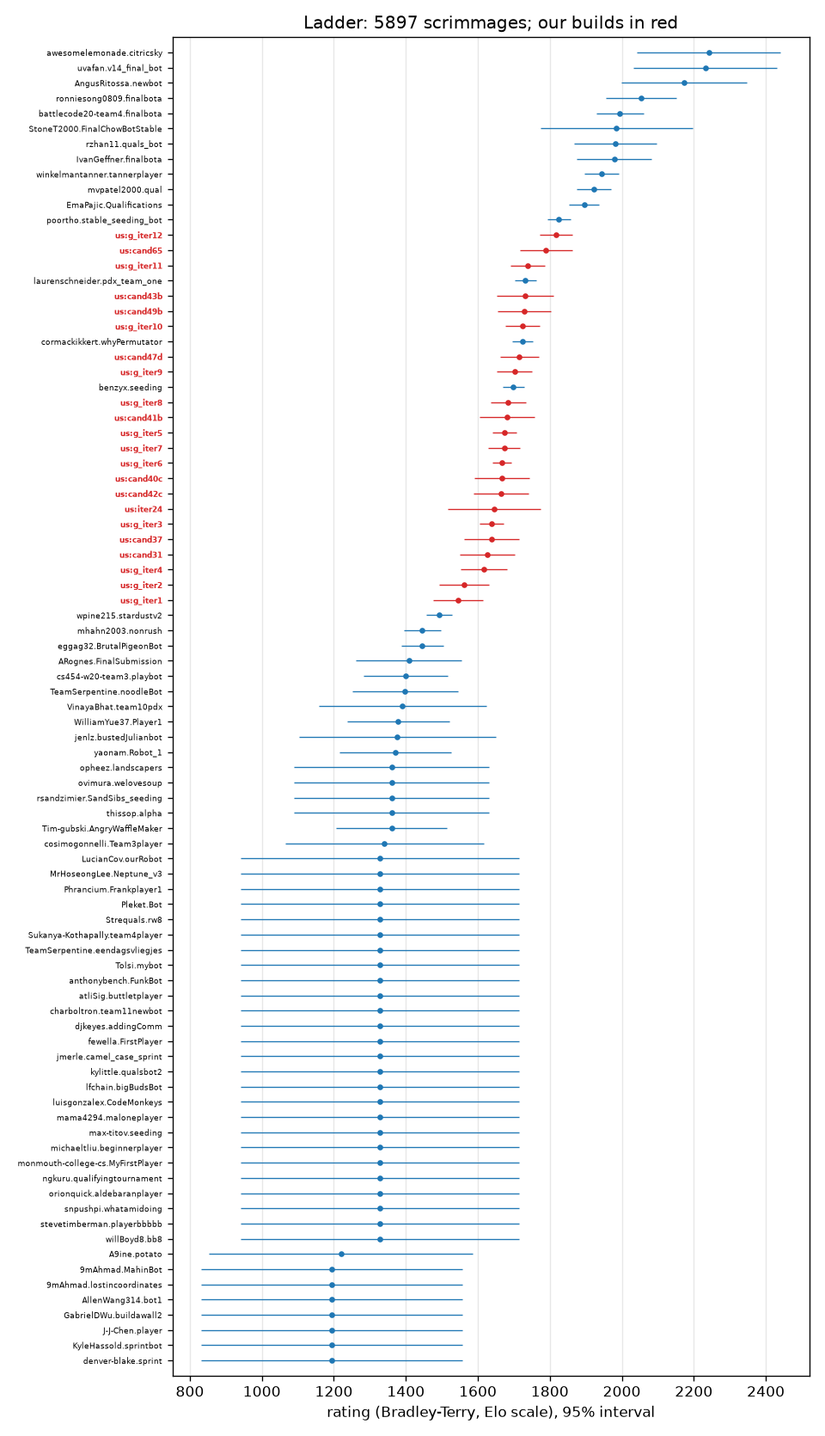
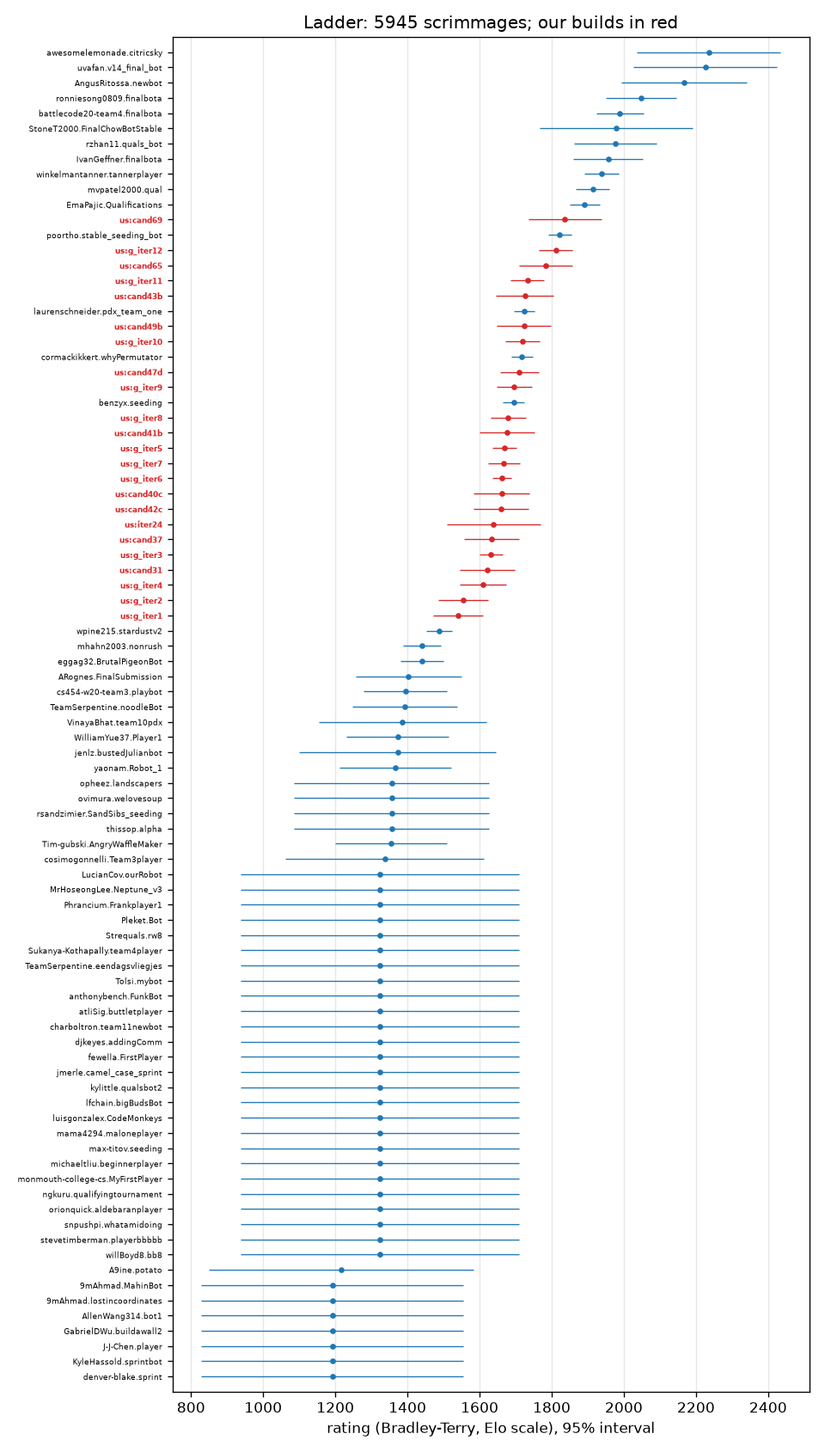
Submission block 20260926-082521-scrim-cand69 posted (cand69)
Claude-Session: https://claude.ai/code/session_015tNyF5ucwWW1mudpEQTT25

diff --git a/progress/ELO.md b/progress/ELO.md
@@ -1,120 +1,122 @@
 # Ladder
 
-5897 scrimmages (ours only), 5373 distinct (a repeated pairing with the same seed replays the same game and counts once), rated by a batch Bradley-Terry fit on the Elo scale (`tools/elolib.py`); each of our builds is its own player. 65 of 65 ladder bots met.
+5945 scrimmages (ours only), 5421 distinct (a repeated pairing with the same seed replays the same game and counts once), rated by a batch Bradley-Terry fit on the Elo scale (`tools/elolib.py`); each of our builds is its own player. 65 of 65 ladder bots met.
 
 Our builds (rating +- 95%; field score = expected score against every ladder bot, one game each):
 
 | build | rating | rank | games | record | field score |
 |---|---|---|---|---|---|
-| g_iter12 | 1817 +- 46 | 13 of 87 | 240 | 111-129 | 80.1% |
-| cand65 | 1789 +- 73 | 14 of 87 | 96 | 42-54 | 78.7% |
-| g_iter11 | 1738 +- 47 | 15 of 87 | 240 | 107-133 | 75.9% |
-| cand43b | 1731 +- 79 | 17 of 87 | 96 | 64-32 | 75.5% |
-| cand49b | 1728 +- 75 | 18 of 87 | 96 | 42-54 | 75.3% |
-| g_iter10 | 1725 +- 48 | 19 of 87 | 240 | 103-137 | 75.1% |
-| cand47d | 1716 +- 54 | 21 of 87 | 192 | 73-119 | 74.6% |
-| g_iter9 | 1702 +- 49 | 22 of 87 | 240 | 78-162 | 73.7% |
-| g_iter8 | 1684 +- 49 | 24 of 87 | 240 | 108-132 | 72.6% |
-| cand41b | 1681 +- 76 | 25 of 87 | 96 | 51-45 | 72.4% |
-| g_iter5 | 1674 +- 34 | 26 of 87 | 618 | 329-289 | 71.9% |
-| g_iter7 | 1673 +- 44 | 27 of 87 | 288 | 135-153 | 71.9% |
-| g_iter6 | 1667 +- 26 | 28 of 87 | 886 | 450-436 | 71.5% |
-| cand40c | 1667 +- 77 | 29 of 87 | 96 | 57-39 | 71.4% |
-| cand42c | 1664 +- 76 | 30 of 87 | 96 | 49-47 | 71.3% |
-| iter24 | 1645 +- 130 | 31 of 87 | 46 | 11-35 | 69.9% |
-| g_iter3 | 1639 +- 33 | 32 of 87 | 796 | 167-629 | 69.5% |
-| cand37 | 1638 +- 76 | 33 of 87 | 96 | 46-50 | 69.4% |
-| cand31 | 1626 +- 76 | 34 of 87 | 96 | 52-44 | 68.6% |
-| g_iter4 | 1617 +- 64 | 35 of 87 | 217 | 43-174 | 67.9% |
-| g_iter2 | 1561 +- 69 | 36 of 87 | 192 | 44-148 | 63.4% |
-| g_iter1 | 1545 +- 69 | 37 of 87 | 170 | 95-75 | 62.0% |
+| cand69 | 1837 +- 101 | 12 of 88 | 48 | 25-23 | 81.3% |
+| g_iter12 | 1811 +- 46 | 14 of 88 | 240 | 111-129 | 80.1% |
+| cand65 | 1783 +- 73 | 15 of 88 | 96 | 42-54 | 78.7% |
+| g_iter11 | 1732 +- 47 | 16 of 88 | 240 | 107-133 | 75.8% |
+| cand43b | 1726 +- 79 | 17 of 88 | 96 | 64-32 | 75.4% |
+| cand49b | 1723 +- 75 | 19 of 88 | 96 | 42-54 | 75.3% |
+| g_iter10 | 1719 +- 48 | 20 of 88 | 240 | 103-137 | 75.0% |
+| cand47d | 1710 +- 54 | 22 of 88 | 192 | 73-119 | 74.5% |
+| g_iter9 | 1696 +- 49 | 23 of 88 | 240 | 78-162 | 73.7% |
+| g_iter8 | 1679 +- 49 | 25 of 88 | 240 | 108-132 | 72.5% |
+| cand41b | 1676 +- 76 | 26 of 88 | 96 | 51-45 | 72.4% |
+| g_iter5 | 1669 +- 34 | 27 of 88 | 618 | 329-289 | 71.9% |
+| g_iter7 | 1668 +- 44 | 28 of 88 | 288 | 135-153 | 71.8% |
+| g_iter6 | 1661 +- 26 | 29 of 88 | 886 | 450-436 | 71.4% |
+| cand40c | 1661 +- 77 | 30 of 88 | 96 | 57-39 | 71.4% |
+| cand42c | 1659 +- 76 | 31 of 88 | 96 | 49-47 | 71.2% |
+| iter24 | 1639 +- 130 | 32 of 88 | 46 | 11-35 | 69.8% |
+| cand37 | 1633 +- 76 | 33 of 88 | 96 | 46-50 | 69.4% |
+| g_iter3 | 1632 +- 33 | 34 of 88 | 796 | 167-629 | 69.3% |
+| cand31 | 1621 +- 76 | 35 of 88 | 96 | 52-44 | 68.5% |
+| g_iter4 | 1611 +- 64 | 36 of 88 | 217 | 43-174 | 67.7% |
+| g_iter2 | 1555 +- 69 | 37 of 88 | 192 | 44-148 | 63.2% |
+| g_iter1 | 1541 +- 69 | 38 of 88 | 170 | 95-75 | 61.9% |
 
 | rank | player | rating | +- 95% | games | W-L |
 |---|---|---|---|---|---|
-| 1 | awesomelemonade.citricsky | 2241 | 200 | 103 | 101-2 |
-| 2 | uvafan.v14_final_bot | 2232 | 200 | 98 | 96-2 |
-| 3 | AngusRitossa.newbot | 2173 | 174 | 95 | 92-3 |
-| 4 | ronniesong0809.finalbota | 2053 | 98 | 127 | 114-13 |
-| 5 | battlecode20-team4.finalbota | 1995 | 65 | 238 | 207-31 |
-| 6 | StoneT2000.FinalChowBotStable | 1985 | 211 | 21 | 19-2 |
-| 7 | rzhan11.quals_bot | 1982 | 115 | 86 | 77-9 |
-| 8 | IvanGeffner.finalbota | 1979 | 105 | 101 | 90-11 |
-| 9 | winkelmantanner.tannerplayer | 1943 | 48 | 320 | 257-63 |
-| 10 | mvpatel2000.qual | 1922 | 47 | 307 | 240-67 |
-| 11 | EmaPajic.Qualifications | 1896 | 42 | 371 | 282-89 |
-| 12 | poortho.stable_seeding_bot | 1825 | 32 | 539 | 371-168 |
-| 13 | **us:g_iter12** | 1817 | 46 | 240 | 111-129 |
-| 14 | **us:cand65** | 1789 | 73 | 96 | 42-54 |
-| 15 | **us:g_iter11** | 1738 | 47 | 240 | 107-133 |
-| 16 | laurenschneider.pdx_team_one | 1732 | 29 | 554 | 314-240 |
-| 17 | **us:cand43b** | 1731 | 79 | 96 | 64-32 |
-| 18 | **us:cand49b** | 1728 | 75 | 96 | 42-54 |
-| 19 | **us:g_iter10** | 1725 | 48 | 240 | 103-137 |
-| 20 | cormackikkert.whyPermutator | 1724 | 30 | 547 | 304-243 |
-| 21 | **us:cand47d** | 1716 | 54 | 192 | 73-119 |
-| 22 | **us:g_iter9** | 1702 | 49 | 240 | 78-162 |
-| 23 | benzyx.seeding | 1698 | 29 | 550 | 286-264 |
-| 24 | **us:g_iter8** | 1684 | 49 | 240 | 108-132 |
-| 25 | **us:cand41b** | 1681 | 76 | 96 | 51-45 |
-| 26 | **us:g_iter5** | 1674 | 34 | 618 | 329-289 |
-| 27 | **us:g_iter7** | 1673 | 44 | 288 | 135-153 |
-| 28 | **us:g_iter6** | 1667 | 26 | 886 | 450-436 |
-| 29 | **us:cand40c** | 1667 | 77 | 96 | 57-39 |
-| 30 | **us:cand42c** | 1664 | 76 | 96 | 49-47 |
-| 31 | **us:iter24** | 1645 | 130 | 46 | 11-35 |
-| 32 | **us:g_iter3** | 1639 | 33 | 796 | 167-629 |
-| 33 | **us:cand37** | 1638 | 76 | 96 | 46-50 |
-| 34 | **us:cand31** | 1626 | 76 | 96 | 52-44 |
-| 35 | **us:g_iter4** | 1617 | 64 | 217 | 43-174 |
-| 36 | **us:g_iter2** | 1561 | 69 | 192 | 44-148 |
-| 37 | **us:g_iter1** | 1545 | 69 | 170 | 95-75 |
-| 38 | wpine215.stardustv2 | 1493 | 36 | 461 | 122-339 |
-| 39 | mhahn2003.nonrush | 1446 | 52 | 250 | 56-194 |
-| 40 | eggag32.BrutalPigeonBot | 1445 | 59 | 194 | 42-152 |
-| 41 | ARognes.FinalSubmission | 1408 | 147 | 31 | 6-25 |
-| 42 | cs454-w20-team3.playbot | 1399 | 117 | 50 | 10-40 |
-| 43 | TeamSerpentine.noodleBot | 1398 | 146 | 32 | 6-26 |
-| 44 | VinayaBhat.team10pdx | 1390 | 232 | 9 | 2-7 |
-| 45 | WilliamYue37.Player1 | 1378 | 142 | 40 | 6-34 |
-| 46 | jenlz.bustedJulianbot | 1376 | 274 | 8 | 1-7 |
-| 47 | yaonam.Robot_1 | 1371 | 155 | 33 | 5-28 |
-| 48 | opheez.landscapers | 1360 | 270 | 9 | 1-8 |
-| 49 | ovimura.welovesoup | 1360 | 270 | 9 | 1-8 |
-| 50 | rsandzimier.SandSibs_seeding | 1360 | 270 | 9 | 1-8 |
-| 51 | thissop.alpha | 1360 | 270 | 9 | 1-8 |
-| 52 | Tim-gubski.AngryWaffleMaker | 1360 | 155 | 32 | 5-27 |
-| 53 | cosimogonnelli.Team3player | 1340 | 275 | 7 | 1-6 |
-| 54 | LucianCov.ourRobot | 1327 | 386 | 3 | 0-3 |
-| 55 | MrHoseongLee.Neptune_v3 | 1327 | 386 | 3 | 0-3 |
-| 56 | Phrancium.Frankplayer1 | 1327 | 386 | 3 | 0-3 |
-| 57 | Pleket.Bot | 1327 | 386 | 3 | 0-3 |
-| 58 | Strequals.rw8 | 1327 | 386 | 3 | 0-3 |
-| 59 | Sukanya-Kothapally.team4player | 1327 | 386 | 3 | 0-3 |
-| 60 | TeamSerpentine.eendagsvliegjes | 1327 | 386 | 3 | 0-3 |
-| 61 | Tolsi.mybot | 1327 | 386 | 3 | 0-3 |
-| 62 | anthonybench.FunkBot | 1327 | 386 | 3 | 0-3 |
-| 63 | atliSig.buttletplayer | 1327 | 386 | 3 | 0-3 |
-| 64 | charboltron.team11newbot | 1327 | 386 | 3 | 0-3 |
-| 65 | djkeyes.addingComm | 1327 | 386 | 3 | 0-3 |
-| 66 | fewella.FirstPlayer | 1327 | 386 | 3 | 0-3 |
-| 67 | jmerle.camel_case_sprint | 1327 | 386 | 3 | 0-3 |
-| 68 | kylittle.qualsbot2 | 1327 | 386 | 3 | 0-3 |
-| 69 | lfchain.bigBudsBot | 1327 | 386 | 3 | 0-3 |
-| 70 | luisgonzalex.CodeMonkeys | 1327 | 386 | 3 | 0-3 |
-| 71 | mama4294.maloneplayer | 1327 | 386 | 3 | 0-3 |
-| 72 | max-titov.seeding | 1327 | 386 | 3 | 0-3 |
-| 73 | michaeltliu.beginnerplayer | 1327 | 386 | 3 | 0-3 |
-| 74 | monmouth-college-cs.MyFirstPlayer | 1327 | 386 | 3 | 0-3 |
-| 75 | ngkuru.qualifyingtournament | 1327 | 386 | 3 | 0-3 |
-| 76 | orionquick.aldebaranplayer | 1327 | 386 | 3 | 0-3 |
-| 77 | snpushpi.whatamidoing | 1327 | 386 | 3 | 0-3 |
-| 78 | stevetimberman.playerbbbbb | 1327 | 386 | 3 | 0-3 |
-| 79 | willBoyd8.bb8 | 1327 | 386 | 3 | 0-3 |
-| 80 | A9ine.potato | 1220 | 366 | 6 | 0-6 |
-| 81 | 9mAhmad.MahinBot | 1195 | 363 | 7 | 0-7 |
-| 82 | 9mAhmad.lostincoordinates | 1195 | 363 | 7 | 0-7 |
-| 83 | AllenWang314.bot1 | 1195 | 363 | 7 | 0-7 |
-| 84 | GabrielDWu.buildawall2 | 1195 | 363 | 7 | 0-7 |
-| 85 | J-J-Chen.player | 1195 | 363 | 7 | 0-7 |
-| 86 | KyleHassold.sprintbot | 1195 | 363 | 7 | 0-7 |
-| 87 | denver-blake.sprint | 1195 | 363 | 7 | 0-7 |
+| 1 | awesomelemonade.citricsky | 2235 | 200 | 103 | 101-2 |
+| 2 | uvafan.v14_final_bot | 2226 | 200 | 98 | 96-2 |
+| 3 | AngusRitossa.newbot | 2166 | 174 | 95 | 92-3 |
+| 4 | ronniesong0809.finalbota | 2047 | 98 | 127 | 114-13 |
+| 5 | battlecode20-team4.finalbota | 1989 | 65 | 238 | 207-31 |
+| 6 | StoneT2000.FinalChowBotStable | 1979 | 211 | 21 | 19-2 |
+| 7 | rzhan11.quals_bot | 1975 | 115 | 86 | 77-9 |
+| 8 | IvanGeffner.finalbota | 1956 | 96 | 107 | 93-14 |
+| 9 | winkelmantanner.tannerplayer | 1938 | 47 | 326 | 261-65 |
+| 10 | mvpatel2000.qual | 1914 | 47 | 313 | 243-70 |
+| 11 | EmaPajic.Qualifications | 1891 | 41 | 377 | 286-91 |
+| 12 | **us:cand69** | 1837 | 101 | 48 | 25-23 |
+| 13 | poortho.stable_seeding_bot | 1822 | 32 | 545 | 376-169 |
+| 14 | **us:g_iter12** | 1811 | 46 | 240 | 111-129 |
+| 15 | **us:cand65** | 1783 | 73 | 96 | 42-54 |
+| 16 | **us:g_iter11** | 1732 | 47 | 240 | 107-133 |
+| 17 | **us:cand43b** | 1726 | 79 | 96 | 64-32 |
+| 18 | laurenschneider.pdx_team_one | 1724 | 29 | 560 | 314-246 |
+| 19 | **us:cand49b** | 1723 | 75 | 96 | 42-54 |
+| 20 | **us:g_iter10** | 1719 | 48 | 240 | 103-137 |
+| 21 | cormackikkert.whyPermutator | 1717 | 29 | 553 | 305-248 |
+| 22 | **us:cand47d** | 1710 | 54 | 192 | 73-119 |
+| 23 | **us:g_iter9** | 1696 | 49 | 240 | 78-162 |
+| 24 | benzyx.seeding | 1694 | 29 | 556 | 289-267 |
+| 25 | **us:g_iter8** | 1679 | 49 | 240 | 108-132 |
+| 26 | **us:cand41b** | 1676 | 76 | 96 | 51-45 |
+| 27 | **us:g_iter5** | 1669 | 34 | 618 | 329-289 |
+| 28 | **us:g_iter7** | 1668 | 44 | 288 | 135-153 |
+| 29 | **us:g_iter6** | 1661 | 26 | 886 | 450-436 |
+| 30 | **us:cand40c** | 1661 | 77 | 96 | 57-39 |
+| 31 | **us:cand42c** | 1659 | 76 | 96 | 49-47 |
+| 32 | **us:iter24** | 1639 | 130 | 46 | 11-35 |
+| 33 | **us:cand37** | 1633 | 76 | 96 | 46-50 |
+| 34 | **us:g_iter3** | 1632 | 33 | 796 | 167-629 |
+| 35 | **us:cand31** | 1621 | 76 | 96 | 52-44 |
+| 36 | **us:g_iter4** | 1611 | 64 | 217 | 43-174 |
+| 37 | **us:g_iter2** | 1555 | 69 | 192 | 44-148 |
+| 38 | **us:g_iter1** | 1541 | 69 | 170 | 95-75 |
+| 39 | wpine215.stardustv2 | 1487 | 36 | 461 | 122-339 |
+| 40 | mhahn2003.nonrush | 1440 | 51 | 250 | 56-194 |
+| 41 | eggag32.BrutalPigeonBot | 1440 | 59 | 194 | 42-152 |
+| 42 | ARognes.FinalSubmission | 1403 | 147 | 31 | 6-25 |
+| 43 | cs454-w20-team3.playbot | 1394 | 117 | 50 | 10-40 |
+| 44 | TeamSerpentine.noodleBot | 1393 | 146 | 32 | 6-26 |
+| 45 | VinayaBhat.team10pdx | 1386 | 232 | 9 | 2-7 |
+| 46 | WilliamYue37.Player1 | 1373 | 142 | 40 | 6-34 |
+| 47 | jenlz.bustedJulianbot | 1372 | 274 | 8 | 1-7 |
+| 48 | yaonam.Robot_1 | 1366 | 155 | 33 | 5-28 |
+| 49 | opheez.landscapers | 1356 | 270 | 9 | 1-8 |
+| 50 | ovimura.welovesoup | 1356 | 270 | 9 | 1-8 |
+| 51 | rsandzimier.SandSibs_seeding | 1356 | 270 | 9 | 1-8 |
+| 52 | thissop.alpha | 1356 | 270 | 9 | 1-8 |
+| 53 | Tim-gubski.AngryWaffleMaker | 1355 | 155 | 32 | 5-27 |
+| 54 | cosimogonnelli.Team3player | 1337 | 275 | 7 | 1-6 |
+| 55 | LucianCov.ourRobot | 1325 | 386 | 3 | 0-3 |
+| 56 | MrHoseongLee.Neptune_v3 | 1325 | 386 | 3 | 0-3 |
+| 57 | Phrancium.Frankplayer1 | 1325 | 386 | 3 | 0-3 |
+| 58 | Pleket.Bot | 1325 | 386 | 3 | 0-3 |
+| 59 | Strequals.rw8 | 1325 | 386 | 3 | 0-3 |
+| 60 | Sukanya-Kothapally.team4player | 1325 | 386 | 3 | 0-3 |
+| 61 | TeamSerpentine.eendagsvliegjes | 1325 | 386 | 3 | 0-3 |
+| 62 | Tolsi.mybot | 1325 | 386 | 3 | 0-3 |
+| 63 | anthonybench.FunkBot | 1325 | 386 | 3 | 0-3 |
+| 64 | atliSig.buttletplayer | 1325 | 386 | 3 | 0-3 |
+| 65 | charboltron.team11newbot | 1325 | 386 | 3 | 0-3 |
+| 66 | djkeyes.addingComm | 1325 | 386 | 3 | 0-3 |
+| 67 | fewella.FirstPlayer | 1325 | 386 | 3 | 0-3 |
+| 68 | jmerle.camel_case_sprint | 1325 | 386 | 3 | 0-3 |
+| 69 | kylittle.qualsbot2 | 1325 | 386 | 3 | 0-3 |
+| 70 | lfchain.bigBudsBot | 1325 | 386 | 3 | 0-3 |
+| 71 | luisgonzalex.CodeMonkeys | 1325 | 386 | 3 | 0-3 |
+| 72 | mama4294.maloneplayer | 1325 | 386 | 3 | 0-3 |
+| 73 | max-titov.seeding | 1325 | 386 | 3 | 0-3 |
+| 74 | michaeltliu.beginnerplayer | 1325 | 386 | 3 | 0-3 |
+| 75 | monmouth-college-cs.MyFirstPlayer | 1325 | 386 | 3 | 0-3 |
+| 76 | ngkuru.qualifyingtournament | 1325 | 386 | 3 | 0-3 |
+| 77 | orionquick.aldebaranplayer | 1325 | 386 | 3 | 0-3 |
+| 78 | snpushpi.whatamidoing | 1325 | 386 | 3 | 0-3 |
+| 79 | stevetimberman.playerbbbbb | 1325 | 386 | 3 | 0-3 |
+| 80 | willBoyd8.bb8 | 1325 | 386 | 3 | 0-3 |
+| 81 | A9ine.potato | 1216 | 366 | 6 | 0-6 |
+| 82 | 9mAhmad.MahinBot | 1191 | 363 | 7 | 0-7 |
+| 83 | 9mAhmad.lostincoordinates | 1191 | 363 | 7 | 0-7 |
+| 84 | AllenWang314.bot1 | 1191 | 363 | 7 | 0-7 |
+| 85 | GabrielDWu.buildawall2 | 1191 | 363 | 7 | 0-7 |
+| 86 | J-J-Chen.player | 1191 | 363 | 7 | 0-7 |
+| 87 | KyleHassold.sprintbot | 1191 | 363 | 7 | 0-7 |
+| 88 | denver-blake.sprint | 1191 | 363 | 7 | 0-7 |

diff --git a/progress/ONSET.md b/progress/ONSET.md
@@ -1,6 +1,6 @@
 # Which metric starts predicting the result first
 
-39 games, 20 wins. Noise floor about 0.32; a correlation inside that band is not evidence.
+40 games, 22 wins. Noise floor about 0.32; a correlation inside that band is not evidence.
 
 Every metric is oriented so **higher is better for us**, so a positive correlation always means
 "this being better goes with winning". `~avg` is the running mean over all rounds so far rather than
@@ -12,46 +12,46 @@ See `progress/METRICS.md` for how each quantity is computed.
 
 | onset | anti | metric | peak corr | r100 | r200 | r300 | r400 | r600 | r900 |
 |---|---|---|---|---|---|---|---|---|---|
-| r50 | - | miners (us-them) | +0.37 | +0.27 | +0.28 | +0.13 | +0.17 | +0.03 | +0.00 |
-| r50 | - | miners (us-them) ~avg | +0.35 | +0.35 | +0.34 | +0.30 | +0.25 | +0.13 | +0.07 |
-| r50 | - | mines (us-them) | +0.55 | +0.46 | +0.30 | +0.36 | +0.40 | +0.42 | +0.42 |
-| r50 | - | mines (us-them) ~avg | +0.56 | +0.52 | +0.35 | +0.36 | +0.40 | +0.40 | +0.44 |
-| r50 | - | robots (us-them) | +0.53 | +0.45 | +0.35 | +0.40 | +0.53 | +0.34 | +0.44 |
-| r50 | - | robots (us-them) ~avg | +0.52 | +0.52 | +0.40 | +0.40 | +0.47 | +0.41 | +0.44 |
-| r50 | - | spawned (us-them) | +0.49 | +0.49 | +0.35 | +0.37 | +0.49 | +0.31 | +0.43 |
-| r50 | - | spawned (us-them) ~avg | +0.55 | +0.55 | +0.44 | +0.42 | +0.47 | +0.37 | +0.41 |
-| r50 | - | units (us-them) | +0.45 | +0.44 | +0.33 | +0.35 | +0.45 | +0.23 | +0.36 |
-| r50 | - | units (us-them) ~avg | +0.49 | +0.49 | +0.35 | +0.35 | +0.40 | +0.35 | +0.37 |
-| r50 | - | worth (us-them) | +0.47 | +0.41 | +0.23 | +0.32 | +0.34 | +0.36 | +0.42 |
-| r50 | - | worth (us-them) ~avg | +0.44 | +0.44 | +0.25 | +0.28 | +0.32 | +0.31 | +0.39 |
-| r200 | - | digs (us-them) | +0.53 | +0.34 | +0.33 | +0.37 | +0.40 | +0.35 | +0.41 |
-| r200 | - | landscapers (us-them) | +0.48 | +0.18 | +0.48 | +0.32 | +0.34 | +0.19 | +0.38 |
-| r200 | - | landscapers (us-them) ~avg | +0.46 | +0.19 | +0.35 | +0.32 | +0.35 | +0.31 | +0.35 |
-| r250 | - | digs (us-them) ~avg | +0.46 | +0.36 | +0.29 | +0.35 | +0.38 | +0.36 | +0.39 |
-| r250 | - | dirtDeps (us-them) | +0.52 | +0.24 | +0.24 | +0.33 | +0.36 | +0.33 | +0.41 |
-| r350 | - | dirtDeps (us-them) ~avg | +0.45 | +0.28 | +0.19 | +0.29 | +0.33 | +0.33 | +0.38 |
-| r400 | - | pickups (us-them) | +0.35 | -0.14 | -0.01 | +0.15 | +0.33 | +0.22 | +0.27 |
-| r650 | - | netguns (us-them) | +0.49 | . | -0.02 | +0.09 | +0.17 | +0.28 | +0.42 |
-| r700 | - | vaporators (us-them) | +0.36 | -0.01 | -0.26 | -0.15 | -0.02 | +0.22 | +0.32 |
-| r850 | - | netguns (us-them) ~avg | +0.43 | . | -0.07 | +0.05 | +0.09 | +0.15 | +0.34 |
-| r950 | - | moves (us-them) | -0.45 | -0.09 | +0.20 | +0.18 | +0.19 | +0.18 | +0.29 |
-| r1150 | - | pickups (us-them) ~avg | +0.31 | -0.14 | -0.03 | +0.09 | +0.21 | +0.24 | +0.25 |
-| r1200 | - | moves (us-them) ~avg | -0.45 | -0.23 | +0.17 | +0.18 | +0.17 | +0.17 | +0.23 |
-| r1200 | - | vaporators (us-them) ~avg | +0.30 | -0.01 | -0.24 | -0.20 | -0.13 | +0.02 | +0.22 |
-| - | - | aba (us-them) [inverted] | +0.22 | +0.18 | -0.01 | +0.10 | +0.15 | +0.18 | +0.09 |
-| - | - | aba (us-them) [inverted] ~avg | +0.21 | +0.21 | +0.04 | +0.07 | +0.11 | +0.17 | +0.15 |
-| - | - | cov (us-them) | +0.26 | -0.06 | +0.15 | +0.12 | +0.16 | +0.17 | +0.07 |
-| - | - | cov (us-them) ~avg | +0.20 | -0.11 | +0.12 | +0.15 | +0.15 | +0.15 | +0.13 |
-| - | - | died (us-them) [inverted] | +0.28 | -0.16 | +0.13 | +0.19 | +0.21 | +0.12 | +0.10 |
-| - | - | died (us-them) [inverted] ~avg | +0.20 | -0.16 | +0.05 | +0.12 | +0.18 | +0.15 | +0.14 |
-| - | - | drones (us-them) | -0.34 | +0.31 | -0.34 | +0.03 | +0.21 | +0.18 | +0.21 |
-| - | - | drones (us-them) ~avg | +0.31 | +0.31 | -0.14 | -0.08 | +0.01 | +0.04 | +0.19 |
+| r100 | - | landscapers (us-them) | +0.57 | +0.41 | +0.40 | +0.24 | +0.23 | +0.31 | +0.54 |
+| r100 | - | landscapers (us-them) ~avg | +0.52 | +0.41 | +0.49 | +0.36 | +0.33 | +0.31 | +0.48 |
+| r100 | - | robots (us-them) | +0.52 | +0.41 | +0.42 | +0.27 | +0.31 | +0.41 | +0.52 |
+| r100 | - | robots (us-them) ~avg | +0.47 | +0.32 | +0.41 | +0.36 | +0.34 | +0.35 | +0.46 |
+| r100 | - | spawned (us-them) | +0.55 | +0.39 | +0.38 | +0.23 | +0.33 | +0.42 | +0.55 |
+| r100 | - | units (us-them) | +0.51 | +0.44 | +0.41 | +0.21 | +0.24 | +0.32 | +0.42 |
+| r100 | - | units (us-them) ~avg | +0.44 | +0.37 | +0.43 | +0.35 | +0.32 | +0.30 | +0.40 |
+| r100 | - | worth (us-them) | +0.52 | +0.31 | +0.39 | +0.48 | +0.51 | +0.50 | +0.44 |
+| r150 | - | died (us-them) [inverted] | +0.31 | +0.23 | +0.29 | +0.25 | +0.13 | +0.19 | +0.19 |
+| r150 | - | died (us-them) [inverted] ~avg | +0.37 | +0.27 | +0.37 | +0.32 | +0.25 | +0.19 | +0.21 |
+| r150 | - | digs (us-them) | +0.64 | +0.06 | +0.49 | +0.57 | +0.58 | +0.62 | +0.63 |
+| r150 | - | digs (us-them) ~avg | +0.64 | +0.11 | +0.50 | +0.58 | +0.59 | +0.61 | +0.64 |
+| r150 | - | dirtDeps (us-them) | +0.63 | +0.13 | +0.50 | +0.62 | +0.62 | +0.62 | +0.62 |
+| r150 | - | dirtDeps (us-them) ~avg | +0.64 | +0.19 | +0.53 | +0.64 | +0.64 | +0.64 | +0.64 |
+| r150 | - | spawned (us-them) ~avg | +0.49 | +0.29 | +0.37 | +0.32 | +0.32 | +0.35 | +0.47 |
+| r150 | - | worth (us-them) ~avg | +0.48 | +0.28 | +0.35 | +0.45 | +0.48 | +0.47 | +0.47 |
+| r200 | - | miners (us-them) | +0.32 | +0.21 | +0.32 | +0.17 | +0.07 | +0.19 | +0.16 |
+| r250 | - | soup (us-them) | +0.43 | -0.26 | -0.06 | +0.43 | +0.39 | +0.06 | -0.16 |
+| r300 | - | miners (us-them) ~avg | +0.36 | +0.19 | +0.23 | +0.36 | +0.29 | +0.23 | +0.20 |
+| r300 | - | mines (us-them) | +0.47 | +0.26 | +0.11 | +0.46 | +0.46 | +0.37 | +0.26 |
+| r300 | - | mines (us-them) ~avg | +0.49 | +0.22 | +0.15 | +0.45 | +0.49 | +0.44 | +0.37 |
+| r300 | - | soup (us-them) ~avg | +0.48 | -0.16 | -0.09 | +0.48 | +0.46 | +0.27 | -0.04 |
+| r350 | - | vaporators (us-them) | +0.49 | +0.11 | +0.07 | +0.27 | +0.37 | +0.49 | +0.33 |
+| r500 | - | vaporators (us-them) ~avg | +0.42 | +0.11 | -0.02 | +0.09 | +0.23 | +0.41 | +0.38 |
+| r1150 | - | drones (us-them) | +0.39 | -0.16 | -0.27 | -0.12 | +0.11 | +0.08 | +0.12 |
+| - | - | aba (us-them) [inverted] | -0.28 | -0.13 | -0.18 | -0.14 | -0.13 | -0.12 | -0.20 |
+| - | - | aba (us-them) [inverted] ~avg | -0.22 | -0.15 | -0.19 | -0.10 | -0.09 | -0.05 | -0.07 |
+| - | - | cov (us-them) | -0.22 | -0.12 | -0.02 | -0.19 | -0.22 | -0.04 | +0.07 |
+| - | - | cov (us-them) ~avg | -0.28 | -0.16 | -0.12 | -0.26 | -0.28 | -0.18 | -0.11 |
+| - | - | drones (us-them) ~avg | -0.29 | -0.16 | -0.27 | -0.20 | -0.08 | +0.01 | +0.06 |
 | - | - | drowned (us-them) [inverted] | . | . | . | . | . | . | . |
 | - | - | drowned (us-them) [inverted] ~avg | . | . | . | . | . | . | . |
-| - | - | hqBuried (us-them) [inverted] | +0.29 | +0.24 | +0.14 | +0.22 | +0.22 | +0.14 | . |
-| - | - | hqBuried (us-them) [inverted] ~avg | +0.26 | +0.26 | +0.14 | +0.23 | +0.23 | +0.14 | +0.14 |
-| - | - | soup (us-them) | +0.30 | -0.11 | +0.09 | +0.30 | -0.00 | +0.17 | +0.01 |
-| - | - | soup (us-them) ~avg | -0.19 | -0.18 | -0.14 | +0.13 | +0.10 | +0.17 | +0.01 |
+| - | - | hqBuried (us-them) [inverted] | +0.23 | +0.19 | +0.22 | +0.00 | . | . | +0.23 |
+| - | - | hqBuried (us-them) [inverted] ~avg | -0.24 | +0.19 | +0.18 | -0.24 | -0.23 | -0.23 | -0.18 |
+| - | - | moves (us-them) | +0.27 | +0.20 | +0.27 | +0.03 | +0.01 | +0.06 | +0.16 |
+| - | - | moves (us-them) ~avg | +0.29 | +0.20 | +0.29 | +0.12 | +0.06 | +0.06 | +0.10 |
+| - | r200 | netguns (us-them) | -0.31 | . | -0.31 | -0.21 | -0.21 | -0.09 | +0.02 |
+| - | - | netguns (us-them) ~avg | -0.31 | . | -0.31 | -0.21 | -0.21 | -0.20 | -0.10 |
+| - | - | pickups (us-them) | +0.22 | -0.06 | +0.08 | +0.19 | +0.03 | +0.09 | +0.22 |
+| - | - | pickups (us-them) ~avg | +0.23 | -0.06 | +0.11 | +0.23 | +0.15 | +0.05 | +0.13 |
 
 **Reading it.** Earliest onset is the first place to look: temporal precedence is the one causal hint a
 correlation can honestly give. Late-onset metrics are usually the scoreboard rather than the cause -- by then

diff --git a/BENCHMARK.md b/BENCHMARK.md
@@ -62,7 +62,7 @@ build with at least 200 recorded games: a candidate's short ladder arm never re-
 | `EmaPajic.Mark3` | EmaPajic_Battlecode-2020 (c060a22) | - | - | untested |  |
 | `EmaPajic.Mark4` | EmaPajic_Battlecode-2020 (c060a22) | - | - | untested |  |
 | `EmaPajic.Mark5` | EmaPajic_Battlecode-2020 (c060a22) | - | - | untested |  |
-| `EmaPajic.Qualifications` | EmaPajic_Battlecode-2020 (c060a22) | 50 | 30 | peer | 20 0 21 0 50 0 17 38 8 25 10 17 20 33 33 30 20 50 42 |
+| `EmaPajic.Qualifications` | EmaPajic_Battlecode-2020 (c060a22) | 50 | 30 | peer | 20 0 21 0 50 0 17 38 8 25 10 17 20 33 33 30 20 50 42 33 |
 | `EmaPajic.SeedingBot` | EmaPajic_Battlecode-2020 (c060a22) | - | - | untested |  |
 | `GabrielDWu.basicbot` | GabrielDWu_blezers-battlecode2020 (c0283f8) | - | - | untested |  |
 | `GabrielDWu.blezerbot` | GabrielDWu_blezers-battlecode2020 (c0283f8) | - | - | untested |  |
@@ -80,7 +80,7 @@ build with at least 200 recorded games: a candidate's short ladder arm never re-
 | `IvanGeffner.dronecrunchplus` | IvanGeffner_battlecode2020 (bc7dbca) | - | - | untested |  |
 | `IvanGeffner.ecoplayer` | IvanGeffner_battlecode2020 (bc7dbca) | - | - | untested |  |
 | `IvanGeffner.ecoplus` | IvanGeffner_battlecode2020 (bc7dbca) | - | - | untested |  |
-| `IvanGeffner.finalbota` | IvanGeffner_battlecode2020 (bc7dbca) | 0 | 9 | locked | 0 8 12 18 0 0 |
+| `IvanGeffner.finalbota` | IvanGeffner_battlecode2020 (bc7dbca) | 0 | 9 | locked | 0 8 12 18 0 0 50 |
 | `IvanGeffner.finalbotb` | IvanGeffner_battlecode2020 (bc7dbca) | - | - | untested |  |
 | `IvanGeffner.finalbotc` | IvanGeffner_battlecode2020 (bc7dbca) | - | - | untested |  |
 | `IvanGeffner.landscaperop` | IvanGeffner_battlecode2020 (bc7dbca) | - | - | untested |  |
@@ -171,11 +171,11 @@ build with at least 200 recorded games: a candidate's short ladder arm never re-
 | `benzyx.espada` | benzyx_bc20-waterloo (05df2e7) | - | - | untested |  |
 | `benzyx.firstplayer` | benzyx_bc20-waterloo (05df2e7) | - | - | untested |  |
 | `benzyx.kurobot` | benzyx_bc20-waterloo (05df2e7) | - | - | untested |  |
-| `benzyx.seeding` | benzyx_bc20-waterloo (05df2e7) | 77 | 30 | peer | 25 17 50 40 25 45 41 33 36 33 33 58 50 25 58 53 50 50 63 63 77 83 |
+| `benzyx.seeding` | benzyx_bc20-waterloo (05df2e7) | 77 | 30 | peer | 25 17 50 40 25 45 41 33 36 33 33 58 50 25 58 53 50 50 63 63 77 83 50 |
 | `benzyx.tortuga` | benzyx_bc20-waterloo (05df2e7) | - | - | untested |  |
 | `charboltron.master_player` | charboltron_pdx_battlecode_2020_team_11 (f78f1e3) | - | - | untested |  |
 | `charboltron.team11newbot` | charboltron_pdx_battlecode_2020_team_11 (f78f1e3) | 100 | 2 | peer(>90 once) | 100 100 |
-| `cormackikkert.whyPermutator` | cormackikkert_battlecode2020 (4d230c4) | 73 | 30 | peer | 25 17 38 40 25 42 45 25 28 25 42 33 47 58 42 50 38 75 60 50 73 67 |
+| `cormackikkert.whyPermutator` | cormackikkert_battlecode2020 (4d230c4) | 73 | 30 | peer | 25 17 38 40 25 42 45 25 28 25 42 33 47 58 42 50 38 75 60 50 73 67 83 |
 | `cormackikkert.whyPermutatorOld` | cormackikkert_battlecode2020 (4d230c4) | - | - | untested |  |
 | `cosimogonnelli.Team3player` | cosimogonnelli_CS454-554-SE (d7dc657) | 100 | 2 | peer(>90 once) | 80 100 |
 | `cs454-w20-team3.oldbot` | cs454-w20-team3_team3-bot (502c334) | - | - | untested |  |
@@ -203,7 +203,7 @@ build with at least 200 recorded games: a candidate's short ladder arm never re-
 | `kylittle.deliriumv1` | kylittle_DeliriumBattlecode (17a94dd) | - | - | untested |  |
 | `kylittle.qualsbot` | kylittle_DeliriumBattlecode (17a94dd) | - | - | untested |  |
 | `kylittle.qualsbot2` | kylittle_DeliriumBattlecode (17a94dd) | 100 | 2 | peer(>90 once) | 100 100 |
-| `laurenschneider.pdx_team_one` | laurenschneider_battlecode20-PDXTeamOne (2965376) | 73 | 30 | peer | 0 50 39 14 0 47 38 0 50 50 50 42 47 42 50 47 50 42 50 47 73 50 |
+| `laurenschneider.pdx_team_one` | laurenschneider_battlecode20-PDXTeamOne (2965376) | 73 | 30 | peer | 0 50 39 14 0 47 38 0 50 50 50 42 47 42 50 47 50 42 50 47 73 50 100 |
 | `lfchain.bigBudsBot` | lfchain_Battlecode2020 (b026153) | 100 | 2 | peer(>90 once) | 100 100 |
 | `lfchain.fBot` | lfchain_Battlecode2020 (b026153) | - | - | untested |  |
 | `lfchain.jBot` | lfchain_Battlecode2020 (b026153) | - | - | untested |  |
@@ -246,7 +246,7 @@ build with at least 200 recorded games: a candidate's short ladder arm never re-
 | `mvpatel2000.oldhades` | mvpatel2000_Battlecode2020 (554943e) | - | - | untested |  |
 | `mvpatel2000.poseidon` | mvpatel2000_Battlecode2020 (554943e) | - | - | untested |  |
 | `mvpatel2000.quail` | mvpatel2000_Battlecode2020 (554943e) | - | - | untested |  |
-| `mvpatel2000.qual` | mvpatel2000_Battlecode2020 (554943e) | 23 | 30 | target | 0 8 24 13 67 12 0 12 20 46 8 23 30 23 42 |
+| `mvpatel2000.qual` | mvpatel2000_Battlecode2020 (554943e) | 23 | 30 | target | 0 8 24 13 67 12 0 12 20 46 8 23 30 23 42 50 |
 | `mvpatel2000.qualAttacc` | mvpatel2000_Battlecode2020 (554943e) | - | - | untested |  |
 | `mvpatel2000.qualNoAtacc` | mvpatel2000_Battlecode2020 (554943e) | - | - | untested |  |
 | `mvpatel2000.seeding` | mvpatel2000_Battlecode2020 (554943e) | - | - | untested |  |
@@ -280,7 +280,7 @@ build with at least 200 recorded games: a candidate's short ladder arm never re-
 | `poortho.rush` | poortho_battlecode-2020 (ebbd61e) | - | - | untested |  |
 | `poortho.rush_bot` | poortho_battlecode-2020 (ebbd61e) | - | - | untested |  |
 | `poortho.stable_miner1` | poortho_battlecode-2020 (ebbd61e) | - | - | untested |  |
-| `poortho.stable_seeding_bot` | poortho_battlecode-2020 (ebbd61e) | 30 | 30 | target | 0 17 27 31 0 30 31 50 39 33 25 33 33 17 42 37 33 17 27 30 30 58 |
+| `poortho.stable_seeding_bot` | poortho_battlecode-2020 (ebbd61e) | 30 | 30 | target | 0 17 27 31 0 30 31 50 39 33 25 33 33 17 42 37 33 17 27 30 30 58 17 |
 | `ps789.dennisTestPlayer` | ps789_AZBattlecode (f1d54ab) | - | - | untested |  |
 | `ps789.phillipTestPlayer` | ps789_AZBattlecode (f1d54ab) | - | - | untested |  |
 | `ronniesong0809.finalbota` | ronniesong0809_battlecode20-RADS (1cee065) | 7 | 30 | locked | 0 18 15 7 0 0 7 |
@@ -326,7 +326,7 @@ build with at least 200 recorded games: a candidate's short ladder arm never re-
 | `willBoyd8.droideka` | willBoyd8_BattleDroid (4b1d4ad) | - | - | untested |  |
 | `willBoyd8.empire` | willBoyd8_BattleDroid (4b1d4ad) | - | - | untested |  |
 | `willBoyd8.mouse` | willBoyd8_BattleDroid (4b1d4ad) | - | - | untested |  |
-| `winkelmantanner.tannerplayer` | winkelmantanner_battlecode2020_the-levee-builders (7f49f11) | 37 | 30 | target | 0 25 15 23 0 36 12 8 23 17 25 17 27 37 8 |
+| `winkelmantanner.tannerplayer` | winkelmantanner_battlecode2020_the-levee-builders (7f49f11) | 37 | 30 | target | 0 25 15 23 0 36 12 8 23 17 25 17 27 37 8 33 |
 | `wpine215.stardustv1` | wpine215_battlecode (d570d57) | - | - | untested |  |
 | `wpine215.stardustv2` | wpine215_battlecode (d570d57) | 90 | 30 | peer | 0 30 50 65 100 70 77 58 78 83 67 75 87 100 83 67 100 73 90 |
 | `yaonam.Robot_1` | yaonam_battlecode2020 (bb363f5) | 83 | 12 | peer | 62 100 83 100 |
